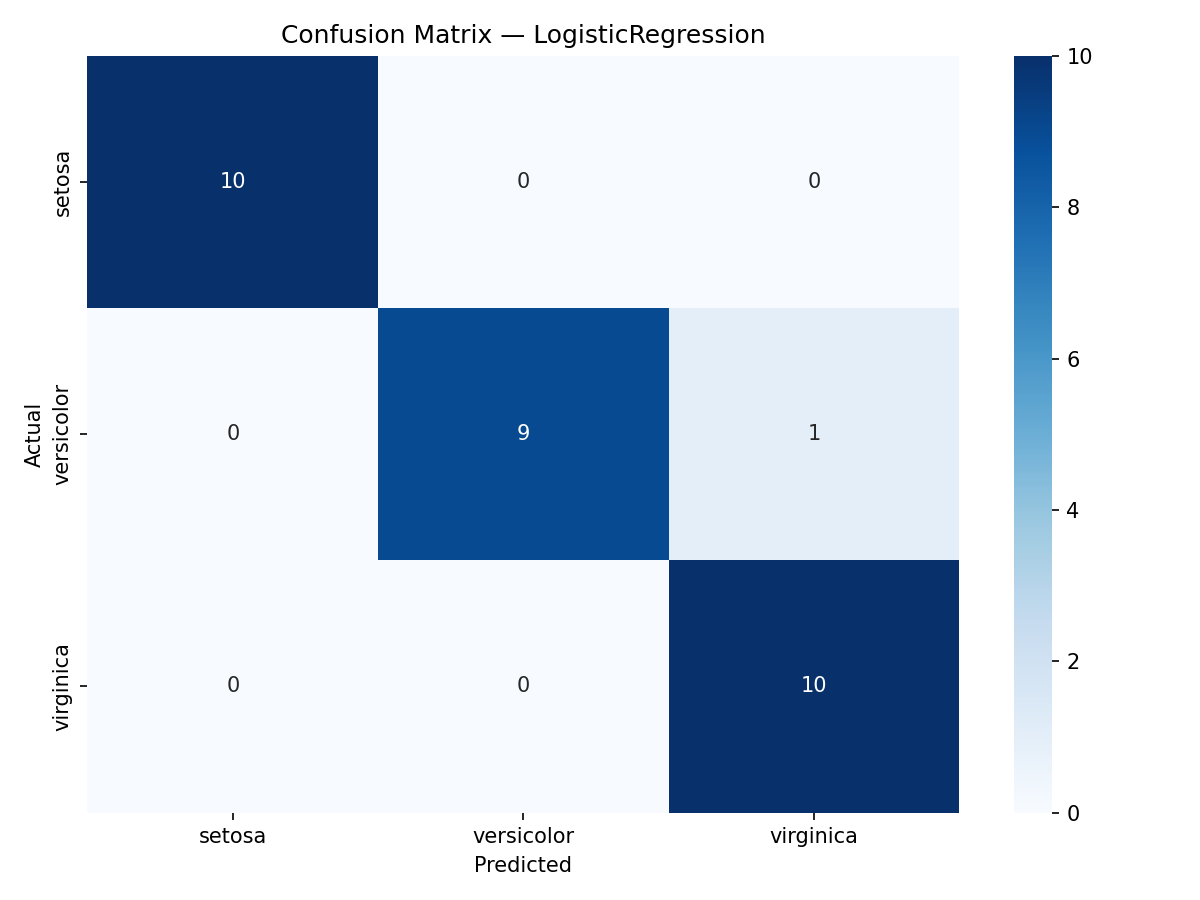
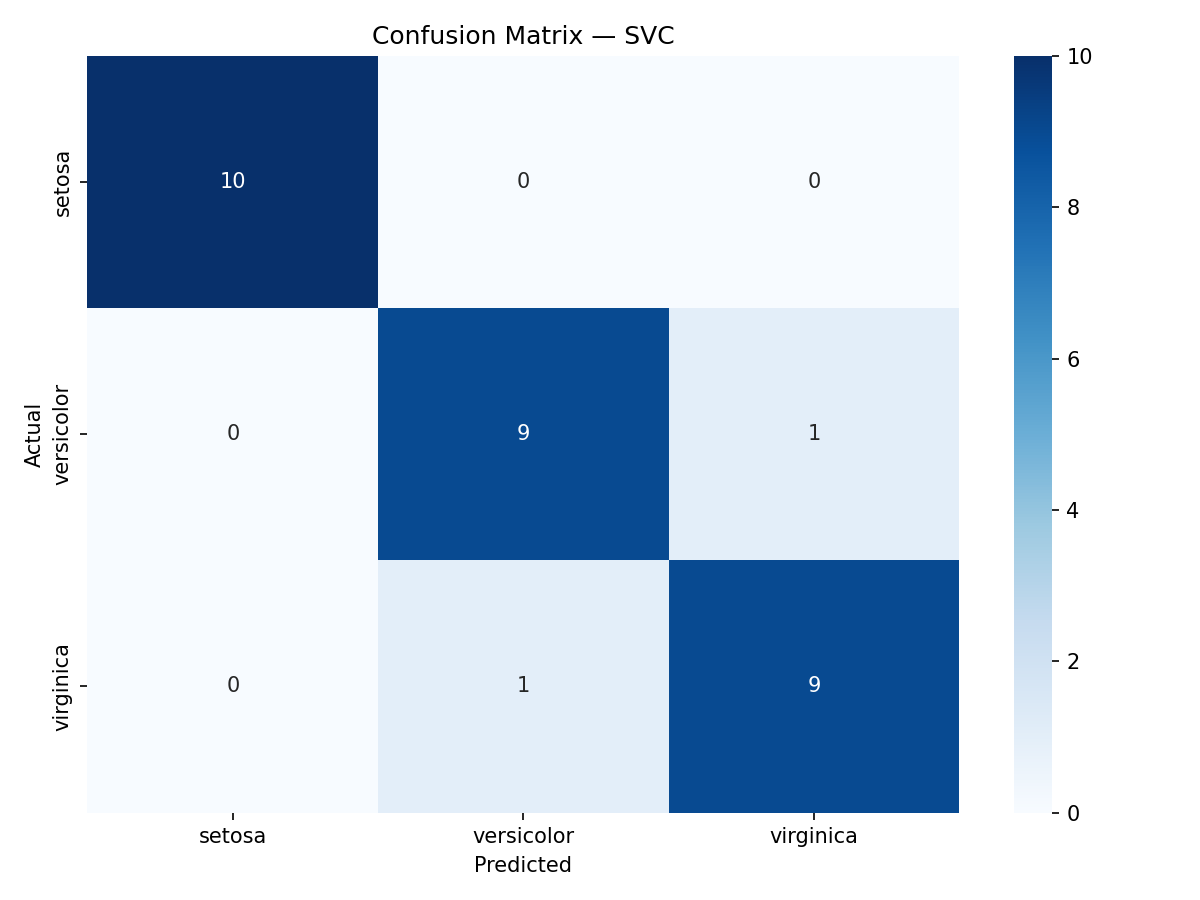
Run pipeline with SVC

Changed region(s): [[0.555, 0.6222, 0.8017, 0.9022], [0.2467, 0.0311, 0.6475, 0.0622], [0.4317, 0.7467, 0.4625, 0.7778]]

diff --git a/train.py b/train.py
@@ -1,21 +1,18 @@
 import pandas as pd
-from sklearn.linear_model import LogisticRegression
+from sklearn.svm import SVC
 import joblib
 import os
 
-# Load training data
 train_df = pd.read_csv('data/train.csv')
 X_train = train_df.iloc[:, :-1]
 y_train = train_df.iloc[:, -1]
 
-# Train model - Logistic Regression (main branch)
-model = LogisticRegression(random_state=42, max_iter=200)
+model = SVC(kernel='rbf', random_state=42)
 model.fit(X_train, y_train)
 
-# Save trained model
 os.makedirs('models', exist_ok=True)
 joblib.dump(model, 'models/model.pkl')
 
-print(f"Model trained: LogisticRegression")
+print(f"Model trained: SVC (kernel=rbf)")
 print(f"Training samples: {len(X_train)}")
 print(f"Model saved → models/model.pkl")
